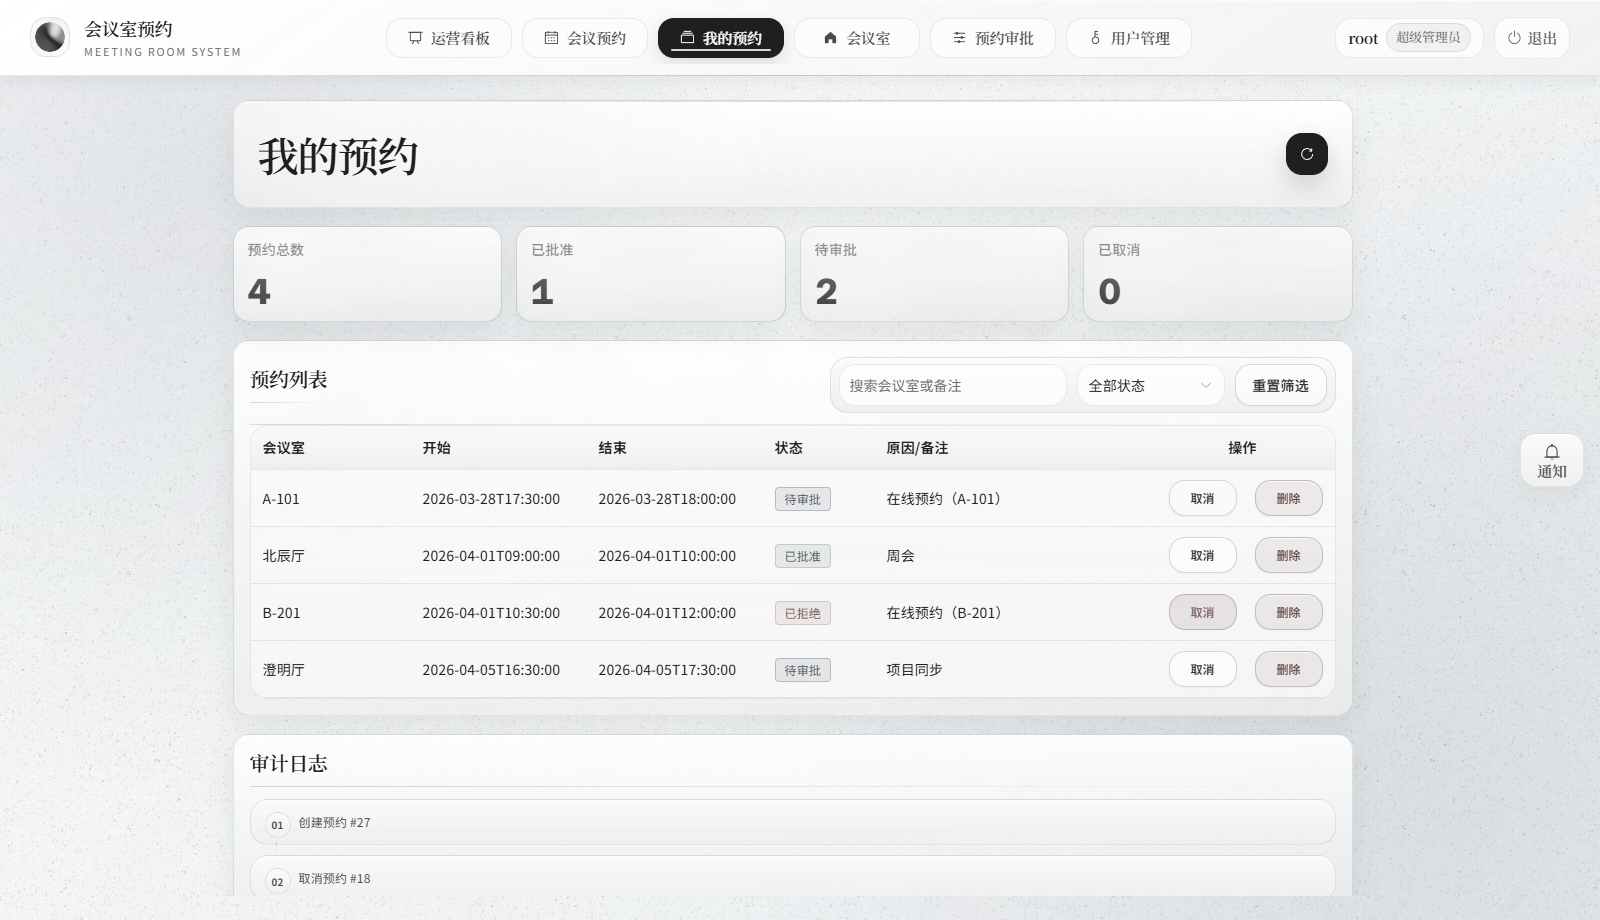
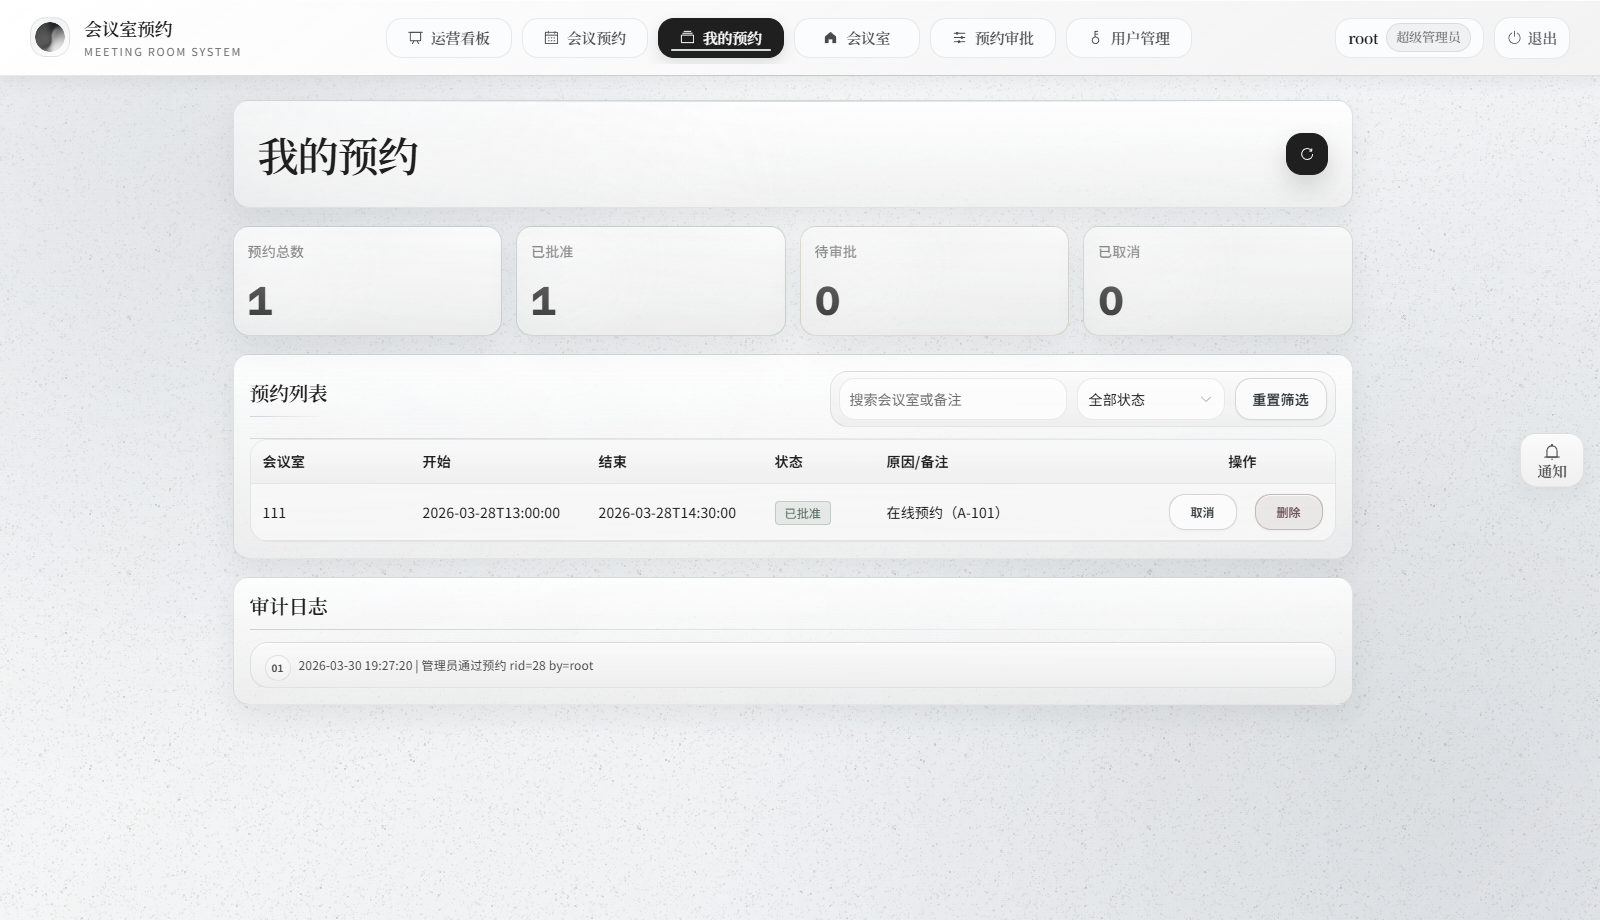
Fix mine stats layout and Redis startup docs

diff --git a/frontend/src/views/MyReservationsView.vue b/frontend/src/views/MyReservationsView.vue
@@ -366,19 +366,6 @@ onMounted(reload)
   gap: 14px;
 }
 
-.reservation-page {
-  --stat-card-min-height: 96px;
-}
-
-.reservation-page .stat-card {
-  padding-block: 12px;
-}
-
-.reservation-page .stat-card .v {
-  margin-top: 6px;
-  font-size: clamp(1.84rem, 1.48rem + 0.78vw, 2.36rem);
-}
-
 .table-card .section-desc {
   display: none;
 }

diff --git a/README.md b/README.md
@@ -93,6 +93,7 @@
 | `JWT_SECRET` | `dev-jwt-secret-change-me-at-least-32-bytes` | JWT 签名密钥 |
 | `BOOTSTRAP_ADMIN_PASSWORD` | `admin123` | 管理员默认密码 |
 | `BOOTSTRAP_SUPER_ADMIN_PASSWORD` | `root123` | 超级管理员默认密码 |
+| `BOOTSTRAP_SEED_DEMO_DATA_ON_START` | `true` | 启动时是否初始化演示数据 |
 
 > 生产或公开部署前必须通过环境变量覆盖 `JWT_SECRET`、`DB_PASSWORD`、`BOOTSTRAP_ADMIN_PASSWORD` 和 `BOOTSTRAP_SUPER_ADMIN_PASSWORD`。
 
@@ -106,9 +107,21 @@
 .\start-dev.bat
 ```
 
-脚本会检查目录、`mvn`、`npm`、MySQL 端口和前端依赖，随后启动后端并等待 `/api/health` 健康检查通过，再启动前端。
+脚本会检查目录、`mvn`、`npm`、MySQL、Redis 和前端依赖，随后启动后端并等待 `/api/health` 健康检查通过，再启动前端。
 
 ### 方式二：手动启动
+
+启动 Redis：
+
+```powershell
+redis-server.exe --port 6379
+```
+
+验证 Redis：
+
+```powershell
+redis-cli.exe -h 127.0.0.1 -p 6379 ping
+```
 
 启动后端：
 
